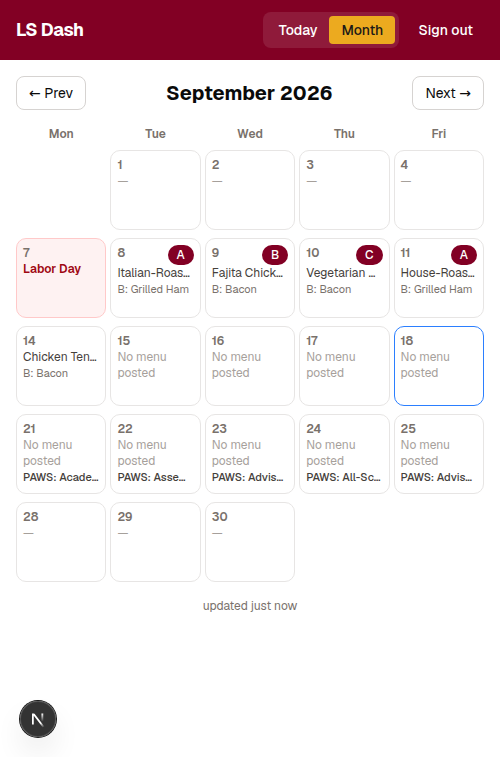
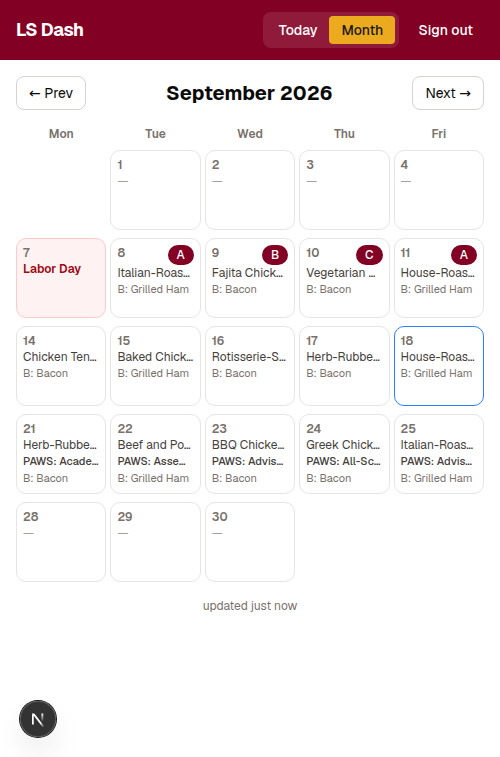
Seed real Sage menus for 9/15-18 and the PAWS week
Implemented With: T3 Code via muse-spark-1.3-contributor-free on opencode

diff --git a/scripts/seed.ts b/scripts/seed.ts
@@ -79,15 +79,145 @@ const PAWS_0921_0925: Record<string, { title: string; details: string[] }> = {
   "2026-09-25": { title: "Advisory", details: ["Advisory Locations"] },
 };
 
-function schoolDay(id: string, dow: string, paws: { title: string; details: string[] } | null) {
+function schoolDay(
+  id: string,
+  dow: string,
+  menus: { lunch: Record<string, unknown>; breakfast: Record<string, unknown> },
+  paws: { title: string; details: string[] } | null,
+  sageWeek: string,
+) {
   return {
     date: id, dow, abc: null, isSpecial: false, specialLabel: null,
     isNoSchool: false, noSchoolLabel: null,
-    lunch: emptyLunch(), breakfast: emptyBreakfast(),
+    lunch: menus.lunch, breakfast: menus.breakfast,
     paws: paws ? { ...paws, week: PAWS_WEEK } : null,
-    sources: { icalUid: null, sageWeek: null }, updatedAt: admin.firestore.FieldValue.serverTimestamp(),
+    sources: { icalUid: null, sageWeek }, updatedAt: admin.firestore.FieldValue.serverTimestamp(),
   };
 }
+
+// LIVE Sage weeks of 09/14 + 09/21/2026, fetched 2026-09-18, extractor
+// output verbatim (summary fields only — no per-item details captured).
+// ABC is null throughout: the school feed URL is a placeholder in local
+// dev, so no rotation is verifiable offline.
+const LIVE_MENUS: Record<string, { lunch: Record<string, unknown>; breakfast: Record<string, unknown> }> = {
+  "2026-09-15": {
+    lunch: {
+      entree: "Baked Chicken Thighs", special: "Middle School Pasta Bar", feature: null,
+      soups: ["Broccoli-Cheddar Soup"],
+      sides: ["Steamed White Rice", "Steamed Carrots", "Steamed Corn", "Steamed Basmati Rice"],
+      all: ["Baked Chicken Thighs", "Barbecue Beef Brisket", "Barbecue Tofu", "Roast Beef Club Wrap", "Soynut Butter and Jelly on White Bread", "Middle School Pasta Bar", "Broccoli-Cheddar Soup", "Tarragon Chicken and Apple Salad", "Tomato Salad", "Chickpea and Fennel Salad", "House-Roasted Turkey", "Swiss Cheese", "Steamed White Rice", "Steamed Carrots", "Steamed Corn", "Steamed Basmati Rice", "Assorted Fresh-Cut Fruit", "Brownies"],
+    },
+    breakfast: {
+      entree: "Grilled Ham",
+      all: ["Grilled Ham", "Cheddar Scrambled Eggs", "Bagel & Cream Cheese", "Sticky Rice", "Cinnamon Rolls", "Pineapple Cup", "Red Grapes Cup", "Strawberry Cup", "S'mores Pudding Parfait", "Strawberry Shortcake Parfait", "Banana Muffins"],
+      daily: ["Lions Mane Breakfast Platter", "Syrup", "Mayonnaise", "Mustard", "Grape Jelly", "Ketchup", "Hot Sauce", "Cream Cheese", "100% Apple Juice", "Shredded Hash Browns", "100% Orange Juice", "Assorted Tea", "Hot Cocoa", "Fresh-Brewed Decaf Coffee", "Fresh-Brewed Coffee", "Sticky Rice", "Salted Butter"],
+    },
+  },
+  "2026-09-16": {
+    lunch: {
+      entree: "Rotisserie-Seasoned Chicken Drumsticks", special: "Build- Your-Own Chicken Sandwich", feature: "Cuisine From Western India",
+      soups: ["French Onion Soup"],
+      sides: ["Steamed Basmati Rice", "Roasted Garlic Green Beans", "Roasted Potatoes", "Steamed Broccoli"],
+      all: ["Rotisserie-Seasoned Chicken Drumsticks", "Pork Vindaloo", "Coconut Curry Chickpeas", "Buffalo Chicken Wrap", "Soynut Butter and Jelly on White Bread", "Build- Your-Own Chicken Sandwich", "Cuisine From Western India", "French Onion Soup", "Curried Egg Salad", "Italian Tortellini Salad", "Corn Salad", "Ham", "Provolone Cheese", "Steamed Basmati Rice", "Roasted Garlic Green Beans", "Roasted Potatoes", "Steamed Broccoli", "Assorted Fresh-Cut Fruit", "Yellow Cake with Whipped Cream Frosting"],
+    },
+    breakfast: {
+      entree: "Bacon",
+      all: ["Bacon", "Breakfast Sausage Patties", "Greek Scrambled Eggs", "Bagel & Cream Cheese", "Sticky Rice", "Cinnamon Rolls", "Croissants", "Strawberry Cup", "Red Grapes Cup", "Pineapple Cup", "S'mores Pudding Parfait", "Strawberry Shortcake Parfait"],
+      daily: ["Lions Mane Breakfast Platter", "Syrup", "Mayonnaise", "Mustard", "Grape Jelly", "Ketchup", "Hot Sauce", "Cream Cheese", "100% Apple Juice", "Shredded Hash Browns", "100% Orange Juice", "Assorted Tea", "Hot Cocoa", "Fresh-Brewed Decaf Coffee", "Fresh-Brewed Coffee", "Sticky Rice", "Salted Butter"],
+    },
+  },
+  "2026-09-17": {
+    lunch: {
+      entree: "Herb-Rubbed Pork Loin", special: "Middle School Taco Toppings Bar", feature: null,
+      soups: ["Beef Chili"],
+      sides: ["Tajin Corn", "Paprika-Roasted Red Potatoes", "Steamed Peas", "Cilantro-Lime Rice", "White Rice", "Cuban Black Beans"],
+      all: ["Herb-Rubbed Pork Loin", "Shredded Chicken Tinga", "Taco-Style Tofu", "BLT Wrap", "Soynut Butter and Jelly on White Bread", "Middle School Taco Toppings Bar", "Beef Chili", "Tofu and Kimchi Poke Salad", "Green Bean and Red Onion Salad", "Pepperoni", "Swiss Cheese", "White Bean Hummus", "Tajin Corn", "Paprika-Roasted Red Potatoes", "Steamed Peas", "Cilantro-Lime Rice", "White Rice", "Cuban Black Beans", "Honeydew", "Cantaloupe", "Baked Cinnamon Sugar Churros", "Chocolate Chip Cookies"],
+    },
+    breakfast: {
+      entree: "Bacon",
+      all: ["Bacon", "Breakfast Sausage Links", "Western Scrambled Eggs", "Bagel & Cream Cheese", "Sticky Rice", "Cinnamon Rolls", "Red Grapes Cup", "Pineapple Cup", "Strawberry Cup", "S'mores Pudding Parfait", "Strawberry Shortcake Parfait", "Double Chocolate Chip Muffins"],
+      daily: ["Lions Mane Breakfast Platter", "Syrup", "Mayonnaise", "Mustard", "Grape Jelly", "Ketchup", "Hot Sauce", "Cream Cheese", "100% Apple Juice", "Shredded Hash Browns", "100% Orange Juice", "Assorted Tea", "Hot Cocoa", "Fresh-Brewed Decaf Coffee", "Fresh-Brewed Coffee", "Sticky Rice", "Salted Butter"],
+    },
+  },
+  "2026-09-18": {
+    lunch: {
+      entree: "House-Roasted Beef", special: "Grilled Cheese, Please!", feature: "Cuisine From Japan",
+      soups: ["Tomato Soup"],
+      sides: ["Sticky Rice", "Steamed Edamame", "Roasted Cauliflower", "Rosemary-Garlic Roasted Potatoes"],
+      all: ["House-Roasted Beef", "Teriyaki Chicken Thighs (GF)", "Teriyaki Tofu", "Chicken Tender Wrap", "Soynut Butter and Jelly on White Bread", "Grilled Cheese, Please!", "Cuisine From Japan", "Tomato Soup", "Cajun Chicken Salad", "Edamame Salad", "Teriyaki Noodle Salad", "Genoa Salami", "Pepper Jack Cheese", "Sticky Rice", "Steamed Edamame", "Roasted Cauliflower", "Rosemary-Garlic Roasted Potatoes", "Assorted Fresh-Cut Fruit", "Chocolate Chip Blondies"],
+    },
+    breakfast: {
+      entree: "Grilled Ham",
+      all: ["Grilled Ham", "Greek Scrambled Eggs", "Bagel & Cream Cheese", "Sticky Rice", "Cinnamon Rolls", "Pain au Chocolate", "Pineapple Cup", "Red Grapes Cup", "Strawberry Cup", "S'mores Pudding Parfait", "Strawberry Shortcake Parfait"],
+      daily: ["Lions Mane Breakfast Platter", "Syrup", "Mayonnaise", "Mustard", "Grape Jelly", "Ketchup", "Hot Sauce", "Cream Cheese", "100% Apple Juice", "Shredded Hash Browns", "100% Orange Juice", "Assorted Tea", "Hot Cocoa", "Fresh-Brewed Decaf Coffee", "Fresh-Brewed Coffee", "Sticky Rice", "Salted Butter"],
+    },
+  },
+  "2026-09-21": {
+    lunch: {
+      entree: "Herb-Rubbed Pork Loin", special: "Pho Bar", feature: null,
+      soups: ["Chicken Pho Soup", "Vegan Miso Soup"],
+      sides: ["Roasted Red Potatoes", "Steamed White Rice", "Steamed Peas", "Roasted Cauliflower", "Curried Chickpeas"],
+      all: ["Herb-Rubbed Pork Loin", "Chicken Tikka Masala", "Ham and Cheddar Sub", "Soynut Butter and Jelly on White Bread", "Pho Bar", "Chicken Pho Soup", "Vegan Miso Soup", "Mint, Cucumber, and Yogurt Salad", "Indian Chickpea Salad", "Pepper Jack Cheese", "Roasted Red Pepper Hummus", "Roasted Red Potatoes", "Steamed White Rice", "Steamed Peas", "Roasted Cauliflower", "Curried Chickpeas", "Assorted Fresh-Cut Fruit", "Red Velvet Cookies"],
+    },
+    breakfast: {
+      entree: "Bacon",
+      all: ["Bacon", "Breakfast Sausage Patties", "Scrambled Eggs with Peppers and Onions", "Bagel & Cream Cheese", "Sticky Rice", "Cinnamon Rolls", "Pain au Chocolate", "Pineapple Cup", "Red Grapes Cup", "Strawberry Cup", "Strawberry Shortcake Parfait", "Oreo® Chocolate Pudding Delight"],
+      daily: ["Lions Mane Breakfast Platter", "Syrup", "Mayonnaise", "Mustard", "Grape Jelly", "Ketchup", "Hot Sauce", "Cream Cheese", "100% Apple Juice", "Shredded Hash Browns", "100% Orange Juice", "Assorted Tea", "Hot Cocoa", "Fresh-Brewed Decaf Coffee", "Fresh-Brewed Coffee", "Sticky Rice", "Salted Butter"],
+    },
+  },
+  "2026-09-22": {
+    lunch: {
+      entree: "Beef and Potato Stew", special: "Middle School Pasta Bar", feature: null,
+      soups: ["Split Pea Soup"],
+      sides: ["Roasted Sweet Potatoes", "Red Skin Mashed Potatoes", "Chicken Gravy", "Steamed Corn", "Sautéed Green Beans"],
+      all: ["Beef and Potato Stew", "Thyme-Roasted Chicken", "Baked Tofu", "Chicken Tender and Ranch Wrap", "Soynut Butter and Jelly on White Bread", "Middle School Pasta Bar", "Split Pea Soup", "Cranberry Chicken Salad", "Broccoli Salad with Citrus Vinaigrette", "Macaroni Salad", "Pepperoni", "Roasted Sweet Potatoes", "Red Skin Mashed Potatoes", "Chicken Gravy", "Steamed Corn", "Sautéed Green Beans", "Assorted Fresh-Cut Fruit", "Chocolate Cake with Chocolate Frosting"],
+    },
+    breakfast: {
+      entree: "Grilled Ham",
+      all: ["Grilled Ham", "Cheddar Scrambled Eggs", "Bagel & Cream Cheese", "Sticky Rice", "Cinnamon Rolls", "Pineapple Cup", "Red Grapes Cup", "Strawberry Cup", "Strawberry Shortcake Parfait", "Oreo® Chocolate Pudding Delight", "House-Baked Assorted Muffins"],
+      daily: ["Lions Mane Breakfast Platter", "Syrup", "Mayonnaise", "Mustard", "Grape Jelly", "Ketchup", "Hot Sauce", "Cream Cheese", "100% Apple Juice", "Shredded Hash Browns", "100% Orange Juice", "Assorted Tea", "Hot Cocoa", "Fresh-Brewed Decaf Coffee", "Fresh-Brewed Coffee", "Sticky Rice", "Salted Butter"],
+    },
+  },
+  "2026-09-23": {
+    lunch: {
+      entree: "BBQ Chicken Drumsticks", special: "Baked Potato Bar", feature: null,
+      soups: ["Beef Chili", "Slow-Simmered Black Bean Chili"],
+      sides: ["Yellow Rice", "Steamed Broccoli", "Roasted Carrots and Shallots with Thyme"],
+      all: ["BBQ Chicken Drumsticks", "BBQ Pulled Pork Sandwich", "Mac & Cheese", "Southwestern Black Beans and Quinoa", "Pastrami Bagel", "Soynut Butter and Jelly on White Bread", "Baked Potato Bar", "Beef Chili", "Slow-Simmered Black Bean Chili", "Curried Egg Salad", "Coleslaw", "Corn Salad", "Havarti Cheese", "Yellow Rice", "Steamed Broccoli", "Roasted Carrots and Shallots with Thyme", "Assorted Fresh-Cut Fruit", "Chocolate Chip Blondies"],
+    },
+    breakfast: {
+      entree: "Bacon",
+      all: ["Bacon", "Breakfast Sausage Patties", "Scrambled Eggs with Peppers and Onions", "Bagel & Cream Cheese", "Sticky Rice", "Cinnamon Rolls", "Pain au Chocolate", "Red Grapes Cup", "Pineapple Cup", "Strawberry Cup", "Strawberry Shortcake Parfait", "Oreo® Chocolate Pudding Delight"],
+      daily: ["Lions Mane Breakfast Platter", "Syrup", "Mayonnaise", "Mustard", "Grape Jelly", "Ketchup", "Hot Sauce", "Cream Cheese", "100% Apple Juice", "Shredded Hash Browns", "100% Orange Juice", "Assorted Tea", "Hot Cocoa", "Fresh-Brewed Decaf Coffee", "Fresh-Brewed Coffee", "Sticky Rice", "Salted Butter"],
+    },
+  },
+  "2026-09-24": {
+    lunch: {
+      entree: "Greek Chicken", special: "Gyro Toppings Bar", feature: null,
+      soups: ["Red Lentil Soup"],
+      sides: ["Pita", "Rice Pilaf with Spinach", "Baked French Fries", "Roasted Zucchini", "Steamed Green Beans"],
+      all: ["Greek Chicken", "Roasted Gyro Meat", "Falafel", "Chicken Banh Mi", "Soynut Butter and Jelly on White Bread", "Gyro Toppings Bar", "Educational Seasonings: An Abundance of Apples", "Red Lentil Soup", "Bulgur Tabbouleh", "Cajun Tuna Salad", "Tomato Salad", "Greek Cucumber Salad", "Capicola Ham", "Pita", "Rice Pilaf with Spinach", "Baked French Fries", "Roasted Zucchini", "Steamed Green Beans", "Assorted Fresh-Cut Fruit", "Cheesecake Bars"],
+    },
+    breakfast: {
+      entree: "Bacon",
+      all: ["Bacon", "Breakfast Sausage Links", "Cheddar Scrambled Eggs", "Bagel & Cream Cheese", "Sticky Rice", "Cinnamon Rolls", "Pineapple Cup", "Red Grapes Cup", "Strawberry Cup", "Strawberry Shortcake Parfait", "Oreo® Chocolate Pudding Delight", "House-Baked Assorted Muffins"],
+      daily: ["Lions Mane Breakfast Platter", "Syrup", "Mayonnaise", "Mustard", "Grape Jelly", "Ketchup", "Hot Sauce", "Cream Cheese", "100% Apple Juice", "Shredded Hash Browns", "100% Orange Juice", "Assorted Tea", "Hot Cocoa", "Fresh-Brewed Decaf Coffee", "Fresh-Brewed Coffee", "Sticky Rice", "Salted Butter"],
+    },
+  },
+  "2026-09-25": {
+    lunch: {
+      entree: "Italian-Roasted Pork Loin", special: "Build- Your-Own Chicken Sandwich", feature: null,
+      soups: ["French Onion Soup"],
+      sides: ["Garlic-Roasted Potatoes", "Roasted Tomatoes", "Lemon-Garlic Sautéed Kale", "Steamed Yellow Squash"],
+      all: ["Italian-Roasted Pork Loin", "Tarragon-Salmon Pasta", "Tofu Cacciatore", "Turkey and Pesto Sandwich", "Soynut Butter and Jelly on White Bread", "Build- Your-Own Chicken Sandwich", "French Onion Soup", "Cajun Chicken Salad", "Italian Pasta Salad", "Lemon-Mint Quinoa Tabbouleh", "Pesto Hummus", "Garlic-Roasted Potatoes", "Roasted Tomatoes", "Lemon-Garlic Sautéed Kale", "Steamed Yellow Squash", "Assorted Fresh-Cut Fruit", "Chocolate Chip Cookies (GF)"],
+    },
+    breakfast: {
+      entree: "Grilled Ham",
+      all: ["Grilled Ham", "Scrambled Eggs with Peppers and Onions", "Bagel & Cream Cheese", "Sticky Rice", "Cinnamon Rolls", "Pain au Chocolate", "Pineapple Cup", "Red Grapes Cup", "Strawberry Cup", "Strawberry Shortcake Parfait", "Oreo® Chocolate Pudding Delight"],
+      daily: ["Lions Mane Breakfast Platter", "Syrup", "Mayonnaise", "Mustard", "Grape Jelly", "Ketchup", "Hot Sauce", "Cream Cheese", "100% Apple Juice", "Shredded Hash Browns", "100% Orange Juice", "Assorted Tea", "Hot Cocoa", "Fresh-Brewed Decaf Coffee", "Fresh-Brewed Coffee", "Sticky Rice", "Salted Butter"],
+    },
+  },
+};
 
 async function main(): Promise<void> {
   const stamp = admin.firestore.FieldValue.serverTimestamp();
@@ -210,20 +340,18 @@ async function main(): Promise<void> {
       },
       sources: { icalUid: null, sageWeek: "09/14/2026" }, updatedAt: stamp,
     },
-    // Tue 09-15 – Fri 09-18: school-week days with no verified dev data.
-    // Menus + ABC rotation for these postdate the HAR/feed captures, so dev
-    // shows "No menu posted" here; the daily cron fills them in prod.
-    "2026-09-15": schoolDay("2026-09-15", "Tue", null),
-    "2026-09-16": schoolDay("2026-09-16", "Wed", null),
-    "2026-09-17": schoolDay("2026-09-17", "Thu", null),
-    "2026-09-18": schoolDay("2026-09-18", "Fri", null),
-    // Mon 09-21 – Fri 09-25: PAWS week. Schedule is the hand-supplied table
-    // above (menus/ABC unknown until cron syncs, hence empty + null).
-    "2026-09-21": schoolDay("2026-09-21", "Mon", PAWS_0921_0925["2026-09-21"]),
-    "2026-09-22": schoolDay("2026-09-22", "Tue", PAWS_0921_0925["2026-09-22"]),
-    "2026-09-23": schoolDay("2026-09-23", "Wed", PAWS_0921_0925["2026-09-23"]),
-    "2026-09-24": schoolDay("2026-09-24", "Thu", PAWS_0921_0925["2026-09-24"]),
-    "2026-09-25": schoolDay("2026-09-25", "Fri", PAWS_0921_0925["2026-09-25"]),
+    // Tue 09-15 – Fri 09-18: LIVE Sage menus above; ABC unverifiable offline.
+    "2026-09-15": schoolDay("2026-09-15", "Tue", LIVE_MENUS["2026-09-15"], null, "09/14/2026"),
+    "2026-09-16": schoolDay("2026-09-16", "Wed", LIVE_MENUS["2026-09-16"], null, "09/14/2026"),
+    "2026-09-17": schoolDay("2026-09-17", "Thu", LIVE_MENUS["2026-09-17"], null, "09/14/2026"),
+    "2026-09-18": schoolDay("2026-09-18", "Fri", LIVE_MENUS["2026-09-18"], null, "09/14/2026"),
+    // Mon 09-21 – Fri 09-25: PAWS week. Menus are the LIVE Sage week above;
+    // schedule is the hand-supplied table (also mirrored in overrides/paws).
+    "2026-09-21": schoolDay("2026-09-21", "Mon", LIVE_MENUS["2026-09-21"], PAWS_0921_0925["2026-09-21"], "09/21/2026"),
+    "2026-09-22": schoolDay("2026-09-22", "Tue", LIVE_MENUS["2026-09-22"], PAWS_0921_0925["2026-09-22"], "09/21/2026"),
+    "2026-09-23": schoolDay("2026-09-23", "Wed", LIVE_MENUS["2026-09-23"], PAWS_0921_0925["2026-09-23"], "09/21/2026"),
+    "2026-09-24": schoolDay("2026-09-24", "Thu", LIVE_MENUS["2026-09-24"], PAWS_0921_0925["2026-09-24"], "09/21/2026"),
+    "2026-09-25": schoolDay("2026-09-25", "Fri", LIVE_MENUS["2026-09-25"], PAWS_0921_0925["2026-09-25"], "09/21/2026"),
     // Sat 09-12: SYNTHETIC weekend doc — must never be navigable/rendered.
     "2026-09-12": {
       date: "2026-09-12", dow: "Sat", abc: null, isSpecial: false, specialLabel: null,
